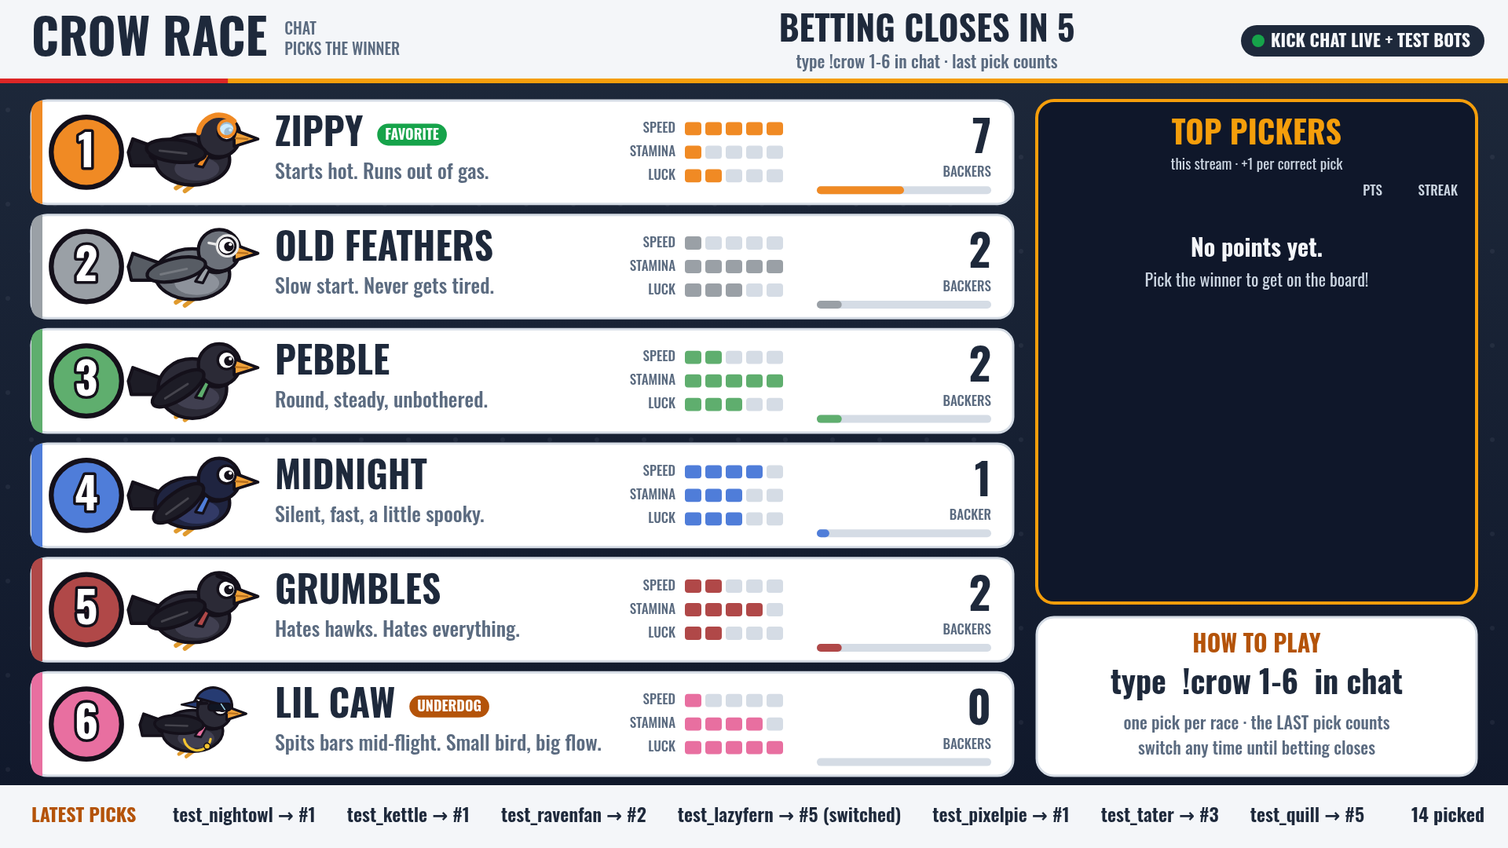
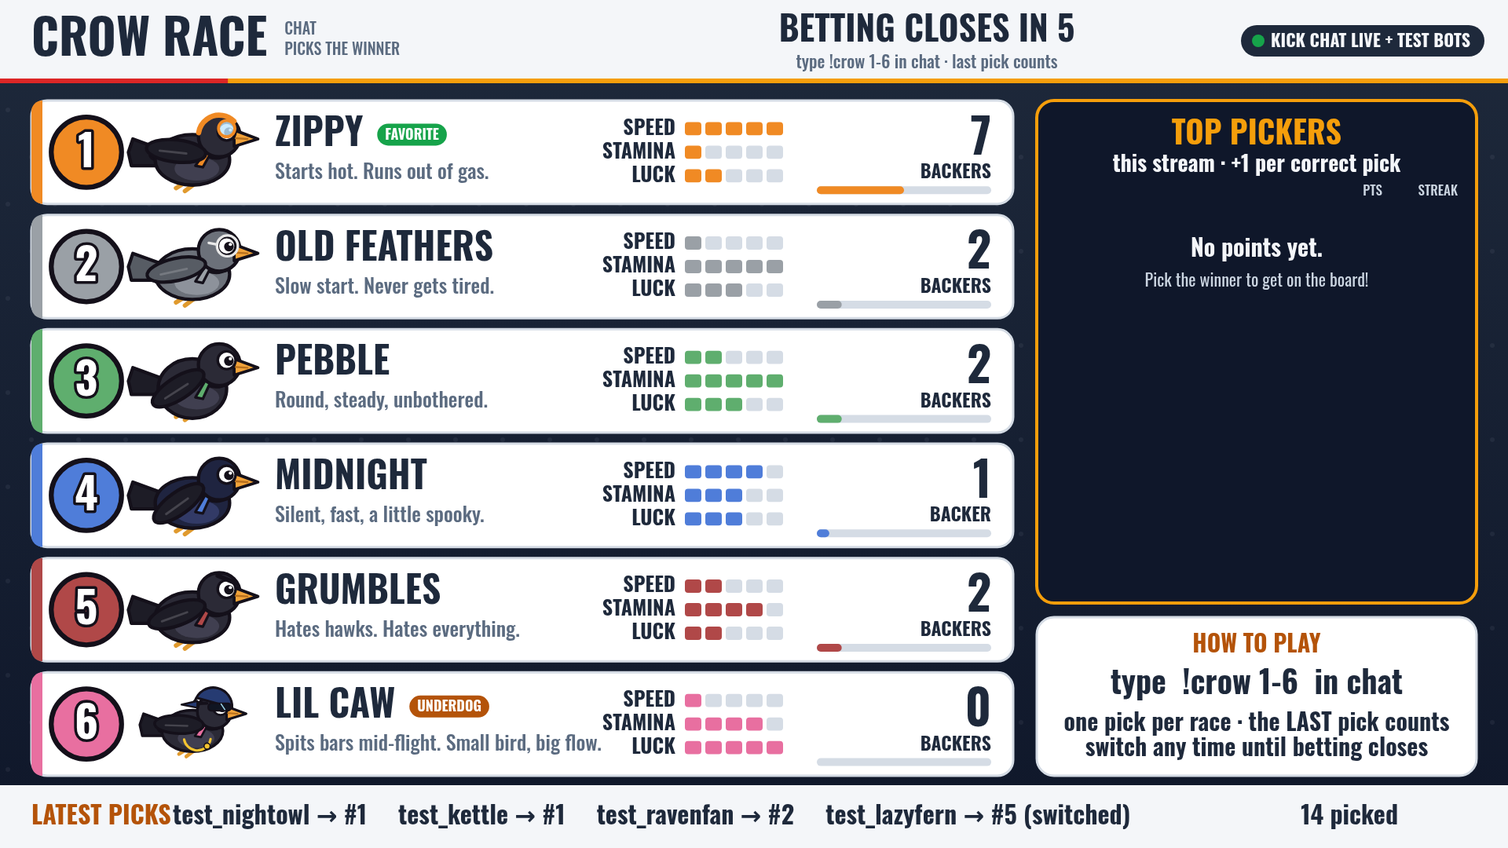
Fix Crow Race QA issues

diff --git a/index.html b/index.html
@@ -283,7 +283,7 @@ function simulate(n) {
     while (!R.done && R.t < 80) stepRace(R, 1 / 30);
     const w = R.finish[0]; lu.crows.forEach(c => out.entered[c.name] = (out.entered[c.name] || 0) + 1);
     out.wins[lu.crows[w].name] = (out.wins[lu.crows[w].name] || 0) + 1;
-    if (w === lu.fav) out.favWins++; if (w === lu.dog) out.dogWins++; if (lu.rank[w] >= 2) out.upsets++;
+    if (w === lu.fav) out.favWins++; if (w === lu.dog) out.dogWins++; if (w === lu.dog || lu.rank[w] >= Math.ceil(lu.crows.length * 2 / 3)) out.upsets++;
     out.avgTime += R.crows[w].time / n; for (const e of R.events) out.events[e.type] = (out.events[e.type] || 0) + 1;
   }
   return out;
@@ -318,7 +318,8 @@ function finishRace() {
   }
   saveBoard();
   winners.sort((a, b) => b.streak - a.streak);
-  G.result = { w, winners, picked: G.picks.size, upset: lu.rank[w] >= 2, dog: w === lu.dog, fav: w === lu.fav };
+  const dog = w === lu.dog;
+  G.result = { w, winners, picked: G.picks.size, upset: dog || lu.rank[w] >= Math.ceil(lu.crows.length * 2 / 3), dog, fav: w === lu.fav };
 }
 function update(dt) {
   if (G.paused) return;
@@ -338,8 +339,8 @@ function skipPhase() { if (G.phase === 'race') { while (!G.R.done && G.R.t < 80)
 function onChat(user, text, src) {
   if (!user || text == null) return false;
   if (src === 'bot' && settings.testMode !== 'on') return false;
-  const m = /^\s*!crow\s*#?(\d+)\b/i.exec(String(text));
-  if (!m || G.phase !== 'betting' || !G.lineup) return false;
+  const raw = String(text), m = /^\s*!crow\s*#?(\d+)(?=\s|$)/i.exec(raw);
+  if (!m || raw.trim() !== m[0].trim() || G.phase !== 'betting' || !G.lineup) return false;
   const n = +m[1]; if (n < 1 || n > G.lineup.crows.length) return false;
   const key = String(user), prev = G.picks.get(key);
   if (prev && prev.i === n - 1) return true;
@@ -495,12 +496,13 @@ function header(center, sub) {
   chatPill(1890, 52);
 }
 function footer(h) { ctx.fillStyle = P.bar; ctx.fillRect(0, 1080 - (h || 80), 1920, h || 80); }
+const FOOTER_SAFE_RIGHT = 1780;
 function credit(y, col) { T(CREDIT, 960, y, 20, col || P.muted, 'center', { w: 400, raw: true }); }   // shown in EVERY theme, never rewritten
 
 function drawBoard(x, y, w, h, title) {
   rr(x, y, w, h, 22); fs(P.bgB, 4, P.hi);
   T(title || 'TOP PICKERS', x + w / 2, y + 44, 40, P.hi, 'center');
-  T('this stream \u00b7 +1 per correct pick', x + w / 2, y + 82, 19, P.textDim, 'center', { w: 400 });
+  T('this stream \u00b7 +1 per correct pick', x + w / 2, y + 82, 28, P.text, 'center', { w: 700 });
   const rows = topBoard(DATA.boardSize);
   T('PTS', x + w - 120, y + 116, 17, P.textDim, 'right', { w: 500 }); T('STREAK', x + w - 24, y + 116, 17, P.textDim, 'right', { w: 500 });
   if (!rows.length) { T('No points yet.', x + w / 2, y + 190, 30, P.text, 'center'); T('Pick the winner to get on the board!', x + w / 2, y + 230, 22, P.textDim, 'center', { w: 400 }); }
@@ -548,12 +550,12 @@ function drawLineup(t) {
     const stats = [['SPEED', pips(c.spd, 0.96, 1.07)], ['STAMINA', pips(c.sta, 0, 1)], ['LUCK', pips(c.luck, 0, 1)]];
     const sh = Math.min(30, ch / 3.6);
     stats.forEach(([lab, v], j) => {
-      const sy = cy + (j - 1) * sh; T(lab, 860, sy, Math.min(17, sh * 0.62), P.muted, 'right', { w: 500 });
+      const sy = cy + (j - 1) * sh; T(lab, 860, sy, Math.min(26, sh * 0.9), P.cardInk, 'right', { w: 700 });
       for (let q = 0; q < 5; q++) { rr(872 + q * 26, sy - sh * 0.28, 21, sh * 0.56, 4); fs(q < v ? c.col : P.cardLine); }
     });
     const b = backers(i);
-    T(String(b), 1262, cy - ch * 0.12, Math.min(58, ch * 0.42), P.cardInk, 'right');
-    T(b === 1 ? 'BACKER' : 'BACKERS', 1262, cy + ch * 0.2, Math.min(17, ch * 0.13), P.muted, 'right', { w: 500 });
+    T(String(b), 1262, cy - ch * 0.12, Math.min(64, ch * 0.46), P.cardInk, 'right', { w: 700 });
+    T(b === 1 ? 'BACKER' : 'BACKERS', 1262, cy + ch * 0.2, Math.min(24, ch * 0.18), P.cardInk, 'right', { w: 700 });
     rr(1040, cy + ch * 0.33, 222, 10, 5); fs(P.cardLine); if (b) { rr(1040, cy + ch * 0.33, 222 * b / tot, 10, 5); fs(c.col); }
     ctx.restore();
   });
@@ -561,15 +563,15 @@ function drawLineup(t) {
   rr(1320, 786, 560, 202, 22); fs(P.card, 3, P.cardLine);
   T('HOW TO PLAY', 1600, 822, 30, P.gold, 'center');
   T('type  !crow 1-' + n + '  in chat', 1600, 872, 40, P.cardInk, 'center');
-  T('one pick per race \u00b7 the LAST pick counts', 1600, 922, 22, P.muted, 'center', { w: 500 });
-  T('switch any time until betting closes', 1600, 954, 22, P.muted, 'center', { w: 500 });
+  T('one pick per race \u00b7 the LAST pick counts', 1600, 922, 30, P.cardInk, 'center', { w: 700 });
+  T('switch any time until betting closes', 1600, 954, 30, P.cardInk, 'center', { w: 700 });
   footer(80);
   if (G.phase === 'lineup') credit(1040);
   else {
-    T('LATEST PICKS', 40, 1040, 24, P.gold);
-    let x = 220; for (const f of G.feed) { const s = fit(f.u, 24, 220, 600) + ' \u2192 #' + f.n + (f.sw ? ' (switched)' : ''); ctx.font = `600 24px ${F}`; const w = ctx.measureText(sayText(s)).width; if (x + w > 1780) break; T(s, x, 1040, 24, P.ink, 'left', { w: 600 }); x += w + 40; }
-    if (!G.feed.length) T('nobody yet - be first!', x, 1040, 24, P.muted, 'left', { w: 500 });
-    T(G.picks.size + ' picked', 1890, 1040, 24, P.ink, 'right');
+    T('LATEST PICKS', 40, 1040, 32, P.gold, 'left', { w: 700 });
+    let x = 220; for (const f of G.feed) { const s = fit(f.u, 32, 220, 700) + ' \u2192 #' + f.n + (f.sw ? ' (switched)' : ''); ctx.font = `700 32px ${F}`; const w = ctx.measureText(sayText(s)).width; if (x + w > 1660) break; T(s, x, 1040, 32, P.ink, 'left', { w: 700 }); x += w + 40; }
+    if (!G.feed.length) T('nobody yet - be first!', x, 1040, 32, P.ink, 'left', { w: 700 });
+    T(G.picks.size + ' picked', FOOTER_SAFE_RIGHT, 1040, 32, P.ink, 'right', { w: 700 });
   }
 }
 
@@ -624,6 +626,7 @@ function drawRace(t) {
     if (boosted) { ctx.save(); ctx.strokeStyle = c.c.col; ctx.lineWidth = 6; ctx.lineCap = 'round'; for (let q = 0; q < 3; q++) { const yy = y - 18 + q * 18, x0 = x - s * 0.9 - ((t * 600 + q * 40) % 60); ctx.beginPath(); ctx.moveTo(x0, yy); ctx.lineTo(x0 - 70, yy); ctx.stroke(); } ctx.restore(); }
     const back = c.back > 0, stop = !back && c.stop > 0 && !c.place;
     drawCrow(x, stop ? cy + lh * 0.08 : y, s, c.c, t + c.ph, { stand: stop, tilt: back ? Math.sin(t * 20) * 0.6 - 0.4 : 0, flap: t * (boosted ? 26 : 14) + c.ph });
+    badge(x, y - s * 1.08, Math.max(18, Math.min(24, s * 0.2)), j + 1, c.c.col);
     if (c.place) { const mc = ['#f4c430', '#c9ccd2', '#cd7f32'][c.place - 1] || P.muted; circ(x - s * 0.95, y - s * 0.35, 26); fs(mc, 4); T(ord(c.place), x - s * 0.95, y - s * 0.34, 22, OUT, 'center'); }
     if (x <= FIELD.x0 + 61 && !c.place) T('\u25C0 ' + Math.round(Math.max(0, (Math.max(...R.crows.map(q => q.d)) - c.d))) + 'm', FIELD.x0 + 4, cy + lh * 0.32, 20, P.bad, 'left');
   });
@@ -641,7 +644,7 @@ function drawRace(t) {
     ctx.save(); ctx.globalAlpha = 0.94; rr(10, y, FIELD.labelW - 20, h, 14); fs(P.card, 3, c.c.col); ctx.restore();
     const r = Math.min(30, h * 0.3); badge(22 + r, y + h / 2, r, j + 1, c.c.col);
     T(fit(c.c.name.toUpperCase(), Math.min(28, h * 0.27), FIELD.labelW - 2 * r - 50), 2 * r + 36, y + h / 2 - h * 0.15, Math.min(28, h * 0.27), P.cardInk);
-    const b = backers(j); T(b + (b === 1 ? ' backer' : ' backers'), 2 * r + 36, y + h / 2 + h * 0.2, Math.min(20, h * 0.2), P.muted, 'left', { w: 500 });
+    const b = backers(j); T(b + (b === 1 ? ' backer' : ' backers'), 2 * r + 36, y + h / 2 + h * 0.2, Math.min(24, h * 0.24), P.cardInk, 'left', { w: 700 });
   });
   // hawk pass: it lives above the course, with a readable shadow and a clear near-miss/hit beat
   for (const f of R.fx) if (f.type === 'hawk') {
@@ -650,8 +653,8 @@ function drawRace(t) {
       const strike = age < 0.88 ? 0 : age < 1.22 ? (age - 0.88) / 0.34 : 1, leaving = age > 1.22 ? ease((age - 1.22) / 1.25) : 0;
       let hx, hy;
       if (age < 0.88) { const p = ease(age / 0.88); hx = lerp(x - 170, x - 12, p); hy = lerp(-260, cy - hs * 0.52, p); }
-      else if (age < 1.22) { const p = ease((age - 0.88) / 0.34); hx = x + (hit ? lerp(-12, -34, p) : lerp(-12, 88, p)); hy = cy - hs * (hit ? 0.52 : 0.72); }
-      else { hx = lerp(x + (hit ? -34 : 88), x + 360, leaving); hy = lerp(cy - hs * (hit ? 0.52 : 0.72), -300, leaving); }
+      else if (age < 1.22) { const p = ease((age - 0.88) / 0.34); hx = x + (hit ? lerp(-12, -hs * 0.34, p) : lerp(-12, 88, p)); hy = cy - hs * (hit ? 0.76 : 0.72); }
+      else { hx = lerp(x - (hit ? hs * 0.34 : -88), x + 360, leaving); hy = lerp(cy - hs * (hit ? 0.76 : 0.72), -300, leaving); }
       const depth = age < 1.12 ? ease(age / 1.12) : Math.max(0, 1 - (age - 1.12) / 1.35);
       ctx.save(); ctx.globalAlpha = 0.20 + depth * 0.24; ctx.fillStyle = OUT; ell(x + (hit ? -18 : 22), cy + crowS * 0.64, hs * (0.22 + depth * 0.46), 10 + depth * 16, 0.02); ctx.fill(); ctx.restore();
       if (strike > 0 && strike < 1) { ctx.save(); ctx.globalAlpha = 0.72 * Math.sin(strike * Math.PI); ctx.strokeStyle = hit ? P.bad : P.hi; ctx.lineWidth = 7; ctx.beginPath(); ctx.arc(x + (hit ? -10 : 40), cy - hs * 0.25, hs * 0.38, -1.1, 1.2); ctx.stroke(); ctx.restore(); }
@@ -678,7 +681,7 @@ function drawRace(t) {
   footer(88); const od = order(R);
   T('POSITIONS', 40, 1036, 24, P.gold);
   let x = 200; od.forEach((c, q) => { badge(x + 20, 1036, 20, c.i + 1, c.c.col); const s = ord(q + 1) + ' ' + c.c.name; T(s, x + 50, 1037, 26, P.ink); ctx.font = `700 26px ${F}`; x += 80 + ctx.measureText(s).width; });
-  T('betting closed', 1890, 1037, 22, P.muted, 'right', { w: 500 });
+  T('betting closed', FOOTER_SAFE_RIGHT, 1037, 26, P.muted, 'right', { w: 600 });
 }
 
 /* ===================================================================== results */
@@ -693,7 +696,7 @@ function drawResults(t) {
   drawCrow(390, 420 + Math.sin(t * 3) * 8, 220, w, t, { crown: true, flap: Math.sin(t * 7) * 0.7 });
   badge(130, 590, 44, res.w + 1, w.col); T(w.name.toUpperCase(), 190, 592, 64, P.cardInk);
   T(G.R.crows[res.w].time ? 'finished in ' + G.R.crows[res.w].time.toFixed(1) + 's' : '', 190, 642, 24, P.muted, 'left', { w: 500 });
-  if (res.upset) { ctx.save(); ctx.translate(620, 250); ctx.rotate(0.18 + Math.sin(t * 4) * 0.03); rr(-120, -42, 240, 84, 14); fs(P.bad, 5, OUT); T(res.dog ? 'UNDERDOG!' : 'UPSET!', 0, 2, res.dog ? 44 : 54, '#fff', 'center'); ctx.restore(); }
+  if (res.upset) { ctx.save(); ctx.translate(620, 340); ctx.rotate(0.18 + Math.sin(t * 4) * 0.03); rr(-120, -42, 240, 84, 14); fs(P.bad, 5, OUT); T(res.dog ? 'UNDERDOG!' : 'UPSET!', 0, 2, res.dog ? 44 : 54, '#fff', 'center'); ctx.restore(); }
   const od = R.finish; od.forEach((ci, q) => {
     const c = lu.crows[ci], y = 712 + q * 44, k = R.crows[ci];
     T(ord(q + 1), 100, y, 28, q === 0 ? P.gold : P.muted, 'right'); badge(136, y, 17, ci + 1, c.col);

diff --git a/src/3-draw.js b/src/3-draw.js
@@ -117,12 +117,13 @@ function header(center, sub) {
   chatPill(1890, 52);
 }
 function footer(h) { ctx.fillStyle = P.bar; ctx.fillRect(0, 1080 - (h || 80), 1920, h || 80); }
+const FOOTER_SAFE_RIGHT = 1780;
 function credit(y, col) { T(CREDIT, 960, y, 20, col || P.muted, 'center', { w: 400, raw: true }); }   // shown in EVERY theme, never rewritten
 
 function drawBoard(x, y, w, h, title) {
   rr(x, y, w, h, 22); fs(P.bgB, 4, P.hi);
   T(title || 'TOP PICKERS', x + w / 2, y + 44, 40, P.hi, 'center');
-  T('this stream \u00b7 +1 per correct pick', x + w / 2, y + 82, 19, P.textDim, 'center', { w: 400 });
+  T('this stream \u00b7 +1 per correct pick', x + w / 2, y + 82, 28, P.text, 'center', { w: 700 });
   const rows = topBoard(DATA.boardSize);
   T('PTS', x + w - 120, y + 116, 17, P.textDim, 'right', { w: 500 }); T('STREAK', x + w - 24, y + 116, 17, P.textDim, 'right', { w: 500 });
   if (!rows.length) { T('No points yet.', x + w / 2, y + 190, 30, P.text, 'center'); T('Pick the winner to get on the board!', x + w / 2, y + 230, 22, P.textDim, 'center', { w: 400 }); }
@@ -170,12 +171,12 @@ function drawLineup(t) {
     const stats = [['SPEED', pips(c.spd, 0.96, 1.07)], ['STAMINA', pips(c.sta, 0, 1)], ['LUCK', pips(c.luck, 0, 1)]];
     const sh = Math.min(30, ch / 3.6);
     stats.forEach(([lab, v], j) => {
-      const sy = cy + (j - 1) * sh; T(lab, 860, sy, Math.min(17, sh * 0.62), P.muted, 'right', { w: 500 });
+      const sy = cy + (j - 1) * sh; T(lab, 860, sy, Math.min(26, sh * 0.9), P.cardInk, 'right', { w: 700 });
       for (let q = 0; q < 5; q++) { rr(872 + q * 26, sy - sh * 0.28, 21, sh * 0.56, 4); fs(q < v ? c.col : P.cardLine); }
     });
     const b = backers(i);
-    T(String(b), 1262, cy - ch * 0.12, Math.min(58, ch * 0.42), P.cardInk, 'right');
-    T(b === 1 ? 'BACKER' : 'BACKERS', 1262, cy + ch * 0.2, Math.min(17, ch * 0.13), P.muted, 'right', { w: 500 });
+    T(String(b), 1262, cy - ch * 0.12, Math.min(64, ch * 0.46), P.cardInk, 'right', { w: 700 });
+    T(b === 1 ? 'BACKER' : 'BACKERS', 1262, cy + ch * 0.2, Math.min(24, ch * 0.18), P.cardInk, 'right', { w: 700 });
     rr(1040, cy + ch * 0.33, 222, 10, 5); fs(P.cardLine); if (b) { rr(1040, cy + ch * 0.33, 222 * b / tot, 10, 5); fs(c.col); }
     ctx.restore();
   });
@@ -183,15 +184,15 @@ function drawLineup(t) {
   rr(1320, 786, 560, 202, 22); fs(P.card, 3, P.cardLine);
   T('HOW TO PLAY', 1600, 822, 30, P.gold, 'center');
   T('type  !crow 1-' + n + '  in chat', 1600, 872, 40, P.cardInk, 'center');
-  T('one pick per race \u00b7 the LAST pick counts', 1600, 922, 22, P.muted, 'center', { w: 500 });
-  T('switch any time until betting closes', 1600, 954, 22, P.muted, 'center', { w: 500 });
+  T('one pick per race \u00b7 the LAST pick counts', 1600, 922, 30, P.cardInk, 'center', { w: 700 });
+  T('switch any time until betting closes', 1600, 954, 30, P.cardInk, 'center', { w: 700 });
   footer(80);
   if (G.phase === 'lineup') credit(1040);
   else {
-    T('LATEST PICKS', 40, 1040, 24, P.gold);
-    let x = 220; for (const f of G.feed) { const s = fit(f.u, 24, 220, 600) + ' \u2192 #' + f.n + (f.sw ? ' (switched)' : ''); ctx.font = `600 24px ${F}`; const w = ctx.measureText(sayText(s)).width; if (x + w > 1780) break; T(s, x, 1040, 24, P.ink, 'left', { w: 600 }); x += w + 40; }
-    if (!G.feed.length) T('nobody yet - be first!', x, 1040, 24, P.muted, 'left', { w: 500 });
-    T(G.picks.size + ' picked', 1890, 1040, 24, P.ink, 'right');
+    T('LATEST PICKS', 40, 1040, 32, P.gold, 'left', { w: 700 });
+    let x = 220; for (const f of G.feed) { const s = fit(f.u, 32, 220, 700) + ' \u2192 #' + f.n + (f.sw ? ' (switched)' : ''); ctx.font = `700 32px ${F}`; const w = ctx.measureText(sayText(s)).width; if (x + w > 1660) break; T(s, x, 1040, 32, P.ink, 'left', { w: 700 }); x += w + 40; }
+    if (!G.feed.length) T('nobody yet - be first!', x, 1040, 32, P.ink, 'left', { w: 700 });
+    T(G.picks.size + ' picked', FOOTER_SAFE_RIGHT, 1040, 32, P.ink, 'right', { w: 700 });
   }
 }
 
@@ -246,6 +247,7 @@ function drawRace(t) {
     if (boosted) { ctx.save(); ctx.strokeStyle = c.c.col; ctx.lineWidth = 6; ctx.lineCap = 'round'; for (let q = 0; q < 3; q++) { const yy = y - 18 + q * 18, x0 = x - s * 0.9 - ((t * 600 + q * 40) % 60); ctx.beginPath(); ctx.moveTo(x0, yy); ctx.lineTo(x0 - 70, yy); ctx.stroke(); } ctx.restore(); }
     const back = c.back > 0, stop = !back && c.stop > 0 && !c.place;
     drawCrow(x, stop ? cy + lh * 0.08 : y, s, c.c, t + c.ph, { stand: stop, tilt: back ? Math.sin(t * 20) * 0.6 - 0.4 : 0, flap: t * (boosted ? 26 : 14) + c.ph });
+    badge(x, y - s * 1.08, Math.max(18, Math.min(24, s * 0.2)), j + 1, c.c.col);
     if (c.place) { const mc = ['#f4c430', '#c9ccd2', '#cd7f32'][c.place - 1] || P.muted; circ(x - s * 0.95, y - s * 0.35, 26); fs(mc, 4); T(ord(c.place), x - s * 0.95, y - s * 0.34, 22, OUT, 'center'); }
     if (x <= FIELD.x0 + 61 && !c.place) T('\u25C0 ' + Math.round(Math.max(0, (Math.max(...R.crows.map(q => q.d)) - c.d))) + 'm', FIELD.x0 + 4, cy + lh * 0.32, 20, P.bad, 'left');
   });
@@ -263,7 +265,7 @@ function drawRace(t) {
     ctx.save(); ctx.globalAlpha = 0.94; rr(10, y, FIELD.labelW - 20, h, 14); fs(P.card, 3, c.c.col); ctx.restore();
     const r = Math.min(30, h * 0.3); badge(22 + r, y + h / 2, r, j + 1, c.c.col);
     T(fit(c.c.name.toUpperCase(), Math.min(28, h * 0.27), FIELD.labelW - 2 * r - 50), 2 * r + 36, y + h / 2 - h * 0.15, Math.min(28, h * 0.27), P.cardInk);
-    const b = backers(j); T(b + (b === 1 ? ' backer' : ' backers'), 2 * r + 36, y + h / 2 + h * 0.2, Math.min(20, h * 0.2), P.muted, 'left', { w: 500 });
+    const b = backers(j); T(b + (b === 1 ? ' backer' : ' backers'), 2 * r + 36, y + h / 2 + h * 0.2, Math.min(24, h * 0.24), P.cardInk, 'left', { w: 700 });
   });
   // hawk pass: it lives above the course, with a readable shadow and a clear near-miss/hit beat
   for (const f of R.fx) if (f.type === 'hawk') {
@@ -272,8 +274,8 @@ function drawRace(t) {
       const strike = age < 0.88 ? 0 : age < 1.22 ? (age - 0.88) / 0.34 : 1, leaving = age > 1.22 ? ease((age - 1.22) / 1.25) : 0;
       let hx, hy;
       if (age < 0.88) { const p = ease(age / 0.88); hx = lerp(x - 170, x - 12, p); hy = lerp(-260, cy - hs * 0.52, p); }
-      else if (age < 1.22) { const p = ease((age - 0.88) / 0.34); hx = x + (hit ? lerp(-12, -34, p) : lerp(-12, 88, p)); hy = cy - hs * (hit ? 0.52 : 0.72); }
-      else { hx = lerp(x + (hit ? -34 : 88), x + 360, leaving); hy = lerp(cy - hs * (hit ? 0.52 : 0.72), -300, leaving); }
+      else if (age < 1.22) { const p = ease((age - 0.88) / 0.34); hx = x + (hit ? lerp(-12, -hs * 0.34, p) : lerp(-12, 88, p)); hy = cy - hs * (hit ? 0.76 : 0.72); }
+      else { hx = lerp(x - (hit ? hs * 0.34 : -88), x + 360, leaving); hy = lerp(cy - hs * (hit ? 0.76 : 0.72), -300, leaving); }
       const depth = age < 1.12 ? ease(age / 1.12) : Math.max(0, 1 - (age - 1.12) / 1.35);
       ctx.save(); ctx.globalAlpha = 0.20 + depth * 0.24; ctx.fillStyle = OUT; ell(x + (hit ? -18 : 22), cy + crowS * 0.64, hs * (0.22 + depth * 0.46), 10 + depth * 16, 0.02); ctx.fill(); ctx.restore();
       if (strike > 0 && strike < 1) { ctx.save(); ctx.globalAlpha = 0.72 * Math.sin(strike * Math.PI); ctx.strokeStyle = hit ? P.bad : P.hi; ctx.lineWidth = 7; ctx.beginPath(); ctx.arc(x + (hit ? -10 : 40), cy - hs * 0.25, hs * 0.38, -1.1, 1.2); ctx.stroke(); ctx.restore(); }
@@ -300,7 +302,7 @@ function drawRace(t) {
   footer(88); const od = order(R);
   T('POSITIONS', 40, 1036, 24, P.gold);
   let x = 200; od.forEach((c, q) => { badge(x + 20, 1036, 20, c.i + 1, c.c.col); const s = ord(q + 1) + ' ' + c.c.name; T(s, x + 50, 1037, 26, P.ink); ctx.font = `700 26px ${F}`; x += 80 + ctx.measureText(s).width; });
-  T('betting closed', 1890, 1037, 22, P.muted, 'right', { w: 500 });
+  T('betting closed', FOOTER_SAFE_RIGHT, 1037, 26, P.muted, 'right', { w: 600 });
 }
 
 /* ===================================================================== results */
@@ -315,7 +317,7 @@ function drawResults(t) {
   drawCrow(390, 420 + Math.sin(t * 3) * 8, 220, w, t, { crown: true, flap: Math.sin(t * 7) * 0.7 });
   badge(130, 590, 44, res.w + 1, w.col); T(w.name.toUpperCase(), 190, 592, 64, P.cardInk);
   T(G.R.crows[res.w].time ? 'finished in ' + G.R.crows[res.w].time.toFixed(1) + 's' : '', 190, 642, 24, P.muted, 'left', { w: 500 });
-  if (res.upset) { ctx.save(); ctx.translate(620, 250); ctx.rotate(0.18 + Math.sin(t * 4) * 0.03); rr(-120, -42, 240, 84, 14); fs(P.bad, 5, OUT); T(res.dog ? 'UNDERDOG!' : 'UPSET!', 0, 2, res.dog ? 44 : 54, '#fff', 'center'); ctx.restore(); }
+  if (res.upset) { ctx.save(); ctx.translate(620, 340); ctx.rotate(0.18 + Math.sin(t * 4) * 0.03); rr(-120, -42, 240, 84, 14); fs(P.bad, 5, OUT); T(res.dog ? 'UNDERDOG!' : 'UPSET!', 0, 2, res.dog ? 44 : 54, '#fff', 'center'); ctx.restore(); }
   const od = R.finish; od.forEach((ci, q) => {
     const c = lu.crows[ci], y = 712 + q * 44, k = R.crows[ci];
     T(ord(q + 1), 100, y, 28, q === 0 ? P.gold : P.muted, 'right'); badge(136, y, 17, ci + 1, c.col);

diff --git a/tools/verify.js b/tools/verify.js
@@ -1,9 +1,9 @@
 // Headless verification (puppeteer-core + Chrome, same setup as Chat Clash's tools):
 // full Test-mode loop, stubbed Kick socket counting !crow picks, upset/win distribution over many races,
 // leaderboard updates + reset + persistence, pause, Test mode fully off, both themes (neutral: no "Croww" text but the credit),
-// zero console errors. Screenshots -> shots/.
+// zero console errors. Test screenshots -> shots/test/ (committed reference shots stay in shots/).
 const puppeteer = require('puppeteer-core'), http = require('http'), fs = require('fs'), path = require('path');
-const root = path.join(__dirname, '..'), out = path.join(root, 'shots'); fs.mkdirSync(out, { recursive: true });
+const root = path.join(__dirname, '..'), out = path.join(root, 'shots', 'test'); fs.mkdirSync(out, { recursive: true });
 const srv = http.createServer((q, r) => { const u = decodeURIComponent(q.url.split('?')[0]); fs.readFile(path.join(root, u === '/' ? 'index.html' : u), (e, d) => { if (e) { r.writeHead(404); r.end(); } else { r.writeHead(200, { 'content-type': 'text/html' }); r.end(d); } }); }).listen(0);
 let URL0 = '';
 const ok = (c, m) => { console.log((c ? 'ok  ' : 'FAIL') + ' ' + m); if (!c) process.exitCode = 1; };
@@ -83,15 +83,15 @@ const shot = async (page, name) => { const d = await page.evaluate(() => { CR.re
     CR.step(5.1); window.__kickPush('early', '!crow 1'); const early = CR.G.picks.size;   // lineup: betting not open yet
     CR.step(7.1);
     window.__kickPush('alice', '!crow 1'); window.__kickPush('bob', '!crow 2'); window.__kickPush('bob', '!crow 3');   // bob switches: latest counts
-    window.__kickPush('carl', '!crow 99'); window.__kickPush('dana', 'hello chat'); window.__kickPush('eve', '!CROW2');
+    window.__kickPush('carl', '!crow 99'); window.__kickPush('dana', 'hello chat'); window.__kickPush('eve', '!CROW2'); window.__kickPush('decimal', '!crow 2.5'); window.__kickPush('multi', '!crow 1 2');
     window.__kickPush('subfan', '!crow 1', [{ type: 'subscriber', text: 'Subscriber' }]);   // subscriber badge: counted exactly like anyone else
     window.__kickPush('alice', '!crow 1');
     const b = CR.G.lineup.crows.map((c, i) => [...CR.G.picks.values()].filter(p => p.i === i).length);
     return { early, picks: CR.G.picks.size, b, bob: CR.G.picks.get('bob').i, msgs: CR.Kick.msgs, status: CR.Kick.status };
   });
-  ok(s.status === 'live' && s.msgs === 9, 'stub socket delivered ' + s.msgs + ' chat messages through the real Kick reader');
+  ok(s.status === 'live' && s.msgs === 11, 'stub socket delivered ' + s.msgs + ' chat messages through the real Kick reader');
   ok(s.early === 0, 'picks before betting opens are ignored');
-  ok(s.picks === 4 && s.b[0] === 2 && s.b[1] === 1 && s.b[2] === 1 && s.bob === 2, 'backer counts ' + JSON.stringify(s.b) + ' (bob switched to #3, invalid/non-command ignored, one pick per chatter)');
+  ok(s.picks === 4 && s.b[0] === 2 && s.b[1] === 1 && s.b[2] === 1 && s.bob === 2, 'backer counts ' + JSON.stringify(s.b) + ' (bob switched to #3, invalid/non-command/decimal/multi-number ignored, one pick per chatter)');
   await p.close();
 
   // ---------- 3. many simulated races: win distribution + upsets
@@ -100,7 +100,7 @@ const shot = async (page, name) => { const d = await page.evaluate(() => { CR.re
   console.log('  ' + sim.races + ' simulated races, avg winning time ' + sim.avgTime.toFixed(1) + 's');
   const rows = Object.keys(sim.entered).map(k => [k, sim.wins[k] || 0, sim.entered[k]]).sort((a, b) => b[1] / b[2] - a[1] / a[2]);
   for (const [k, w, e] of rows) console.log('    ' + k.padEnd(13) + ' won ' + String(w).padStart(4) + ' / ' + e + ' races entered (' + (100 * w / e).toFixed(1) + '%)');
-  console.log('  favorite won ' + (100 * sim.favWins / sim.races).toFixed(1) + '%, underdog won ' + (100 * sim.dogWins / sim.races).toFixed(1) + '%, 3rd-best-or-worse rated crow won ' + (100 * sim.upsets / sim.races).toFixed(1) + '%');
+  console.log('  favorite won ' + (100 * sim.favWins / sim.races).toFixed(1) + '%, underdog won ' + (100 * sim.dogWins / sim.races).toFixed(1) + '%, bottom-third-or-underdog rated crow won ' + (100 * sim.upsets / sim.races).toFixed(1) + '%');
   console.log('  chaos events: ' + JSON.stringify(sim.events));
   ok(rows.every(r => r[1] > 0), 'every crow wins sometimes');
   ok(sim.dogWins / sim.races > 0.05 && sim.favWins / sim.races < 0.6, 'upsets genuinely happen (underdog wins ' + (100 * sim.dogWins / sim.races).toFixed(1) + '%)');

diff --git a/src/2-race.js b/src/2-race.js
@@ -84,7 +84,7 @@ function simulate(n) {
     while (!R.done && R.t < 80) stepRace(R, 1 / 30);
     const w = R.finish[0]; lu.crows.forEach(c => out.entered[c.name] = (out.entered[c.name] || 0) + 1);
     out.wins[lu.crows[w].name] = (out.wins[lu.crows[w].name] || 0) + 1;
-    if (w === lu.fav) out.favWins++; if (w === lu.dog) out.dogWins++; if (lu.rank[w] >= 2) out.upsets++;
+    if (w === lu.fav) out.favWins++; if (w === lu.dog) out.dogWins++; if (w === lu.dog || lu.rank[w] >= Math.ceil(lu.crows.length * 2 / 3)) out.upsets++;
     out.avgTime += R.crows[w].time / n; for (const e of R.events) out.events[e.type] = (out.events[e.type] || 0) + 1;
   }
   return out;
@@ -119,7 +119,8 @@ function finishRace() {
   }
   saveBoard();
   winners.sort((a, b) => b.streak - a.streak);
-  G.result = { w, winners, picked: G.picks.size, upset: lu.rank[w] >= 2, dog: w === lu.dog, fav: w === lu.fav };
+  const dog = w === lu.dog;
+  G.result = { w, winners, picked: G.picks.size, upset: dog || lu.rank[w] >= Math.ceil(lu.crows.length * 2 / 3), dog, fav: w === lu.fav };
 }
 function update(dt) {
   if (G.paused) return;
@@ -139,8 +140,8 @@ function skipPhase() { if (G.phase === 'race') { while (!G.R.done && G.R.t < 80)
 function onChat(user, text, src) {
   if (!user || text == null) return false;
   if (src === 'bot' && settings.testMode !== 'on') return false;
-  const m = /^\s*!crow\s*#?(\d+)\b/i.exec(String(text));
-  if (!m || G.phase !== 'betting' || !G.lineup) return false;
+  const raw = String(text), m = /^\s*!crow\s*#?(\d+)(?=\s|$)/i.exec(raw);
+  if (!m || raw.trim() !== m[0].trim() || G.phase !== 'betting' || !G.lineup) return false;
   const n = +m[1]; if (n < 1 || n > G.lineup.crows.length) return false;
   const key = String(user), prev = G.picks.get(key);
   if (prev && prev.i === n - 1) return true;
